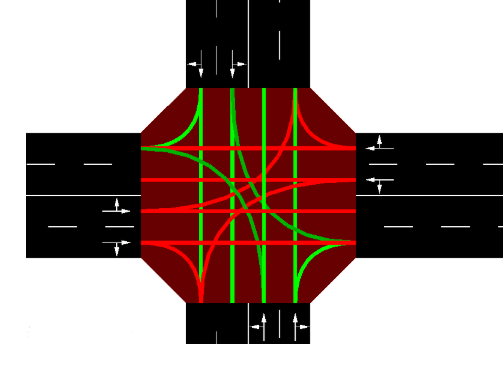
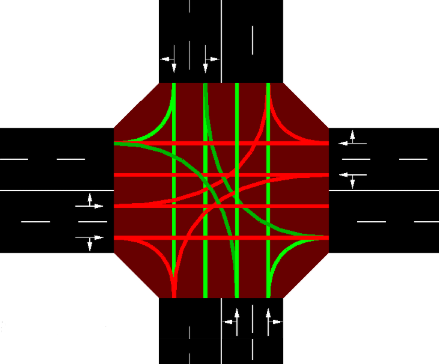
latex sehr updated

Changed region(s): [[0.0, 0.0, 1.0, 1.0], [0.533, 0.0907, 0.5626, 0.1511], [0.4146, 0.0, 0.4442, 0.0302]]

diff --git a/latex/chapters/methodik/Einbindung.tex b/latex/chapters/methodik/Einbindung.tex
@@ -16,7 +16,7 @@ Die Architektur der Lernumgebung ist als verteiltes Multiagentensystem ausgelegt
         \node[box, below=of mae] (wrap) {SuperSuit Wrappers\\\texttt{- pad\_obs / pad\_actions}\\\texttt{- pettingzoo\_to\_vec\_env}\\\texttt{- concat\_vec\_envs}};
         \node[box, below=of wrap] (vec) {VecNormalize + VecMonitor\\(Stable-Baselines3)};
         \node[box, below=of vec] (ppo) {PPO Agent (Stable-Baselines3)\\\texttt{- MLPPolicy}\\\texttt{- Schedules: LR (cosine warmup), Clip (cosine)}};
-        \node[box, below=of ppo] (cb) {Callbacks\\\texttt{- TimeBasedCheckpoint}\\\texttt{- EnvMetricsLogger}\\\texttt{- BestModelSaver}};
+        \node[box, below=of ppo] (cb) {Callbacks\\\texttt{- TimeBasedCheckpoint}\\\texttt{- EpisodeMetricsLogger}\\\texttt{- BestModelSaver}};
         \node[box, below=of cb] (log) {Modell- \& Log-Speicherung\\\texttt{(pro Seed in runs/)}};
 
         \draw[arrow] (sim) -- (mae);
@@ -53,24 +53,36 @@ Evaluationsläufe mit zuvor nicht genutzten Zufallsseeds dienen der abschließen
 
 
 \subsubsection{Konfiguration der Umgebung}
-
-Die Reinforcement-Learning-Umgebung wurde auf Basis der Klasse \texttt{parallel\_env} aus \texttt{sumo-rl} konfiguriert.
-Wichtige Parameter umfassen:
+\label{sec:training-setup}
+Die Trainingsumgebung basiert auf der Klasse \texttt{parallel\_env} aus dem \texttt{sumo-rl}-Framework, wurde jedoch stark erweitert und in eine
+Stable-Baselines3-kompatible Vektor-Umgebung eingebettet.
+Dabei wurden die folgenden Aspekte berücksichtigt:
 
 \begin{itemize}
-    \item \texttt{net\_file}, \texttt{route\_file}: Pfade zum bereinigten Verkehrsnetz und zugehöriger Routendatei.
-    \item \texttt{use\_gui}: Deaktiviert für schnelleres Training (\texttt{False}); bei Bedarf zur Laufzeit aktivierbar.
-    \item \texttt{num\_seconds}: Dauer einer Simulationsepisode in Sekunden (hier 5000\,s).
-    \item \texttt{delta\_time}: Zeitabstand zwischen Agentenentscheidungen (Default: 5\,s).
-    \item \texttt{reward\_fn}: Referenz auf die aktive Belohnungsfunktion.
-          Für das Haupttraining wurde \texttt{realworld\_reward} verwendet (Details siehe Abschnitt~\ref{sec:rl-konzept}).
-    \item \texttt{min\_green}: Minimale Grünphasenlänge (5\,s).
-    \item \texttt{max\_depart\_delay}: Maximale Verzögerung bei der Einfahrt eines Fahrzeugs (100\,s).
-    \item \texttt{sumo\_seed}: Fester Zufalls-Seed aus der Seedliste $\{546456, 678678, 234256, 678\}$.
-    \item \texttt{add\_system\_info}: Ergänzt systemweite Kennzahlen in den \texttt{infos}.
-    \item \texttt{add\_per\_agent\_info}: Kontextdaten pro Agent (hier deaktiviert).
-    \item \texttt{single\_agent = False}: Multiagentenmodus; jede steuerbare Ampel ist ein separater Agent.
+    \item \textbf{Verkehrsnetz:} Grundlage ist das bereinigte Netz \texttt{map.net.xml}.
+    \item \textbf{Routenprofile:} Drei Routendateien (\texttt{flows\_low.rou.xml}, \texttt{flows\_medium.rou.xml}, \texttt{flows\_high.rou.xml}) werden
+          zyklisch per Reset geladen, sodass das Modell im Training auf verschiedene Lastprofile trifft.
+    \item \textbf{Seed-Handling:} Vier unterschiedliche Seeds (\{143534, 456, 635768, 13755\}) sorgen für Reproduzierbarkeit und Variation.
+    \item \textbf{Episode-Länge:} Jede Episode läuft für 4096 Simulationssekunden.
+    \item \textbf{Entscheidungsintervall:} Ampelaktionen werden alle 5\,s (\texttt{delta\_time}) neu gewählt.
+    \item \textbf{Belohnungsfunktionen:} Durch die direkte Erweiterung des \texttt{sumo-rl}-Frameworks können unterschiedliche Reward-Funktionen flexibel eingebunden werden,
+          wodurch eine einheitliche Schnittstelle für Experimente mit verschiedenen Zielfunktionen entsteht (siehe Anhang~\ref{app:rewardfunktionen}).
+    \item \textbf{Systemmetriken:} \texttt{add\_system\_info=True} aktiviert globale Kennzahlen wie mittlere Wartezeit oder Gesamtemissionen.
+    \item \textbf{Multi-Agent-Setup:} Jede steuerbare Ampel im Netz wird als eigenständiger Agent behandelt, was der PettingZoo-Schnittstelle entspricht.
+    \item \textbf{Integration in SB3:} Über \texttt{SuperSuit} (Padding, Konvertierung, Vektorisierung) wird die Umgebung an Stable-Baselines3 angebunden.
+    \item \textbf{Normalisierung:} Rewards und Beobachtungen werden mit \texttt{VecNormalize} z-standardisiert, um das Training zu stabilisieren.
 \end{itemize}
+
+Zusätzlich sind mehrere Callback-Mechanismen implementiert:
+\begin{itemize}
+    \item \textbf{Checkpoints:} Zeitbasiertes Speichern der Modelle (stündlich).
+    \item \textbf{Logging:} Aggregierte Episodenmetriken (Wartezeiten, Queues, Fluss) werden in TensorBoard und CSV-Dateien geschrieben.
+    \item \textbf{Bestes Modell:} Automatisches Sichern des jeweils besten Modells nach mittlerem Episoden-Reward.
+\end{itemize}
+
+Das Training erfolgt mit PPO (\texttt{stable-baselines3}) und nutzt eine Cosine-Schedule für Lernrate und Clip-Range,
+sowie eine zweischichtige MLP-Policy (\texttt{[128,128]}). Jede Run wird im Ordner \texttt{runs/} mit Zeitstempel protokolliert.
+
 
 Die Umgebung ist vollständig kompatibel mit \texttt{Gymnasium}, \texttt{PettingZoo} sowie den Wrapper-Bibliotheken \texttt{SuperSuit} und \texttt{VecEnv}, wodurch ein standardisiertes Interfacing mit RL-Algorithmen ermöglicht wird.
 
@@ -143,58 +155,71 @@ zu Beginn eine hohe Exploration zuzulassen und gegen Ende des Trainings die Upda
 Der Entropiekoeffizient von 0{,}01 wurde so gewählt,
 dass auch in späten Trainingsphasen eine gewisse Exploration erhalten bleibt.
 
-
 \subsubsection{Checkpoints, Monitoring und Logging}
 
-Zur Sicherstellung eines robusten Trainingsprozesses wurde eine Reihe von Callback-Mechanismen implementiert (siehe Anhang \ref{app:train_script}):
+Zur Sicherstellung eines robusten und reproduzierbaren Trainingsprozesses wurde ein
+umfassendes Callback- und Logging-System integriert (siehe Anhang~\ref{app:train_script}).
+Dieses setzt direkt auf den Mechanismen von Stable-Baselines3 auf und umfasst:
 
 \begin{itemize}
     \item \textbf{TimeBasedCheckpointCallback:}
-          Zeitbasierte Sicherung des Modells und der Normalisierungsdaten in festen Intervallen
-          (standardmäßig stündlich). Gespeicherte Dateien:
-          \begin{itemize}
-              \item \texttt{ppo\_sumo\_model\_\{steps\}\_steps.zip} - Modellparameter,
-              \item \texttt{ppo\_sumo\_model\_\{steps\}\_steps\_vecnormalize.pkl} - Normalisierungszustand.
-          \end{itemize}
+          Zeitbasierte Sicherung des aktuellen Modells und der Normalisierungsdaten
+          in festen Intervallen (standardmäßig stündlich).
+          Die Dateien werden mit Schrittzähler im Namen versioniert
+          und ermöglichen die Wiederaufnahme ab beliebigen Zwischenständen.
 
-    \item \textbf{EnvMetricsLoggerCallback:}
-          Aggregiert und loggt Umgebungsmetriken aus dem \texttt{infos}-Dictionary.
-          Schlüssel mit Präfix \texttt{system\_} werden in globale Mittelwerte umbenannt (\texttt{mean\_...}).
-          Geloggte Metriken umfassen:
-          \begin{itemize}
-              \item \texttt{mean\_arrived}: mittlere Anzahl neu eingetroffener Fahrzeuge,
-              \item \texttt{mean\_departed}: mittlere Anzahl abgefahrener Fahrzeuge,
-              \item \texttt{mean\_backlogged}: mittlere Anzahl nicht abgefertigter Fahrzeuge,
-              \item \texttt{mean\_running}: mittlere Anzahl aktuell fahrender Fahrzeuge,
-              \item \texttt{mean\_stopped}: mittlere Anzahl stehender Fahrzeuge,
-              \item \texttt{mean\_mean\_speed}: mittlere Durchschnittsgeschwindigkeit,
-              \item \texttt{mean\_mean\_waiting\_time}: mittlere mittlere Wartezeit pro Fahrzeug,
-              \item \texttt{mean\_waiting\_time}: mittlere Wartezeit (gesamt),
-              \item \texttt{mean\_teleported}: mittlere Anzahl Teleportationen pro Schritt,
-              \item \texttt{mean\_emissions\_per\_vehicle}: mittlere CO\textsubscript{2}-Emission pro Fahrzeug.
-          \end{itemize}
+    \item \textbf{EpisodeMetricsLoggerCallback:}
+          Aggregiert Kennzahlen direkt aus dem \texttt{infos}-Dictionary der SUMO-Umgebung
+          und schreibt sie in das Stable-Baselines3-Logger-Interface.
+          Damit wird ein kontinuierliches Monitoring pro Episode gewährleistet.
 
     \item \textbf{BestModelSaverCallback:}
-          Automatische Speicherung des jeweils besten Modells (höchster mittlerer Episodenreward aus \texttt{ep\_info\_buffer}),
-          inklusive zugehöriger Normalisierungsdaten:
-          \begin{itemize}
-              \item \texttt{best\_model.zip}: bestes Modell,
-              \item \texttt{best\_model\_vecnormalize.pkl}: Normalisierungszustand des besten Modells.
-          \end{itemize}
+          Automatische Speicherung des jeweils besten Modells,
+          gemessen am mittleren Episodenreward (\texttt{ep\_info\_buffer}).
+          Neben den Modellparametern werden auch die Normalisierungsdaten gesichert,
+          sodass eine konsistente Reproduktion möglich ist.
 \end{itemize}
 
+\paragraph{Geloggte Metriken.}
+Alle relevanten Metriken werden zusätzlich im CSV-Format und über TensorBoard \cite{TensorBoard} erfasst.
+Die wichtigsten überwachten Größen sind:
 
-Alle Modellartefakte (\texttt{.zip}, \texttt{vecnormalize.pkl}) sowie die TensorBoard-Logs \cite{TensorBoard}
-wurden pro Seed-Version strukturiert gespeichert. Das Log-Verzeichnis folgt dem Schema
-\texttt{runs/ppo\_sumo\_<SEED>\_<YYYY-MM-DD\_HH-MM-SS>}.
-\texttt{tensorboard\_log} verweist auf diesen Ordner; \texttt{VecMonitor} schreibt zusätzlich \texttt{monitor.csv}.
-TensorBoard wurde während des gesamten Trainings eingesetzt, um den Verlauf zentraler Kennzahlen
-(z.\,B. Episodenreward, mittlere Geschwindigkeit, Wartezeiten, CO\textsubscript{2}-Emissionen,
-Lernrate, Clip-Range) in Echtzeit zu überwachen.
-Dies ermöglichte eine frühzeitige Erkennung von Instabilitäten (z.\,B. plötzliche Reward-Einbrüche)
-sowie die Analyse des Lernfortschritts in unterschiedlichen Trainingsphasen.
-Die Visualisierungen wurden zudem genutzt, um Hyperparameter-Anpassungen
-in Vorversuchen gezielt zu validieren.
+\begin{itemize}
+    \item \textbf{Szenario und Methode:} \texttt{scenario}, \texttt{method}, \texttt{run\_dir},
+    \item \textbf{Systemmetriken:} Anzahl fahrender Fahrzeuge (\texttt{system\_total\_running}),
+          gestoppter Fahrzeuge (\texttt{system\_total\_stopped}),
+          eingetroffener Fahrzeuge (\texttt{system\_total\_arrived}),
+          abgefertigter Fahrzeuge (\texttt{system\_total\_departed}),
+          backlogged Fahrzeuge (\texttt{system\_total\_backlogged}),
+          Teleports (\texttt{system\_total\_teleported}),
+    \item \textbf{Leistungsmetriken:} mittlere Wartezeit (\texttt{system\_mean\_waiting\_time}),
+          gesamte Wartezeit (\texttt{system\_total\_waiting\_time}),
+          mittlere Geschwindigkeit (\texttt{system\_mean\_speed}),
+    \item \textbf{Trainingsmetriken:} mittlerer Episodenreward (\texttt{ep\_rew\_mean}),
+          Episodenlänge (\texttt{ep\_len\_mean}),
+          verwendeter Seed (\texttt{ep\_seed\_mean}),
+          sowie aggregierte Episodenstatistiken (\texttt{episode\_mean}).
+\end{itemize}
+
+TensorBoard diente als zentrales Werkzeug, um den Verlauf relevanter Kennzahlen in Echtzeit zu überwachen und Trainingstendenzen (z. B. Reward-Stabilität, Auswirkungen von Teleports oder Backlog-Aufbau) nachvollziehbar zu machen.
+
+\begin{figure}[H]
+    \centering
+    \includegraphics[width=0.8\textwidth]{tensorboard.PNG}
+    \caption{Beispielhafte Lernkurve eines Trainingslaufs, visualisiert mit TensorBoard. Der Reward stabilisiert sich nach einer Explorationsphase.}
+    \label{fig:tensorboard_example}
+\end{figure}
+
+
+\paragraph{Artefakte und Struktur.}
+Alle Modellartefakte (\texttt{.zip}, \texttt{vecnormalize.pkl}),
+sowie die zugehörigen \texttt{monitor.csv}-Dateien und TensorBoard-Logs
+werden pro Seed in einem Run-spezifischen Ordner gespeichert
+(\texttt{runs/ppo\_sumo\_<SEED>\_<YYYY-MM-DD\_HH-MM-SS>}).
+TensorBoard diente als zentrales Werkzeug, um den Verlauf relevanter Kennzahlen
+in Echtzeit zu überwachen und Trainingstendenzen (z.\,B. Reward-Stabilität,
+Auswirkungen von Teleports oder Backlog-Aufbau) nachvollziehbar zu machen.
+
 
 \subsubsection{Systemumgebung und Durchführung}
 

diff --git a/latex/chapters/methodik/Aufbau_des_Simulationsmodells_in_SUMO.tex b/latex/chapters/methodik/Aufbau_des_Simulationsmodells_in_SUMO.tex
@@ -2,11 +2,11 @@
 
 \subsubsection{Netzgenerierung}
 
-Zur Modellierung des realen Straßennetzes wurde ein Kartenausschnitt des Untersuchungsgebiets über die Exportfunktion von OpenStreetMap \cite{osm-export} heruntergeladen und anschließend mit JOSM \cite{josm} bereinigt. Der Ausschnitt umfasst die Reinhold-Frank-Straße sowie angrenzende Hauptverkehrsachsen im Bereich des Mühlburger Tors. Der bearbeitete Kartenausschnitt wurde mit dem SUMO-Werkzeug \texttt{netconvert} \cite{sumo-tools} in ein XML-Netzwerkformat überführt. Dabei kamen Optionen zur automatischen TLS-Erkennung und zur Verbesserung der Fahrstreifenzuordnung zum Einsatz (z.\,B. \texttt{--tls.guess-signals}, \texttt{--junctions.join}). \cite{sumo-doc}
+Zur Modellierung des realen Straßennetzes wurde ein Kartenausschnitt des Untersuchungsgebiets über die Exportfunktion von OpenStreetMap \cite{osm-export} heruntergeladen und anschließend mit JOSM \cite{josm} bereinigt. Der Ausschnitt umfasst die Reinhold-Frank-Straße sowie angrenzende Hauptverkehrsachsen im Bereich des Mühlburger Tors. Der bearbeitete Kartenausschnitt wurde mit dem SUMO-Werkzeug \texttt{netconvert} \cite{sumo-tools} in ein XML-Netzwerkformat überführt. Dabei kamen Optionen zur Einsatz um das Netz stabiler zu machen(z.\,B. \texttt{--junctions.join}). \cite{sumo-doc}
 
 \subsubsection{Erzeugung von Fahrzeugflüssen}
 
-Für die Simulation wurden zwei Ansätze genutzt. Zunächst entstanden mit dem SUMO-Skript \texttt{randomTrips.py} \cite{randomTrips} einfache Testflüsse, die zur Validierung des Netzmodells dienten. Anschließend wurden auf Basis realer Verkehrszähldaten (siehe Kapitel \ref{sec:zaehlstellen-karlsruhe}) Flussprofile definiert, welche die beobachteten DTV-Werte proportional auf die äußeren Zufahrtskanten verteilten. Hauptachsen wie B10 oder B36 erhielten dabei ein höheres Gewicht. Die daraus erzeugten Routendateien wurden mit \texttt{duarouter} \cite{duarouter} zu konfliktfreien Fahrten verarbeitet. Unterschiedliche Szenarien (Morgen- und Abendspitzen, gleichmäßige Verteilung) erlaubten die Abbildung verschiedener Verkehrslagen.
+Für die Simulation wurden zwei Ansätze genutzt. Zunächst entstanden mit dem SUMO-Skript \texttt{randomTrips.py} \cite{randomTrips} einfache Testflüsse, die zur Validierung des Netzmodells dienten. Anschließend wurden auf Basis realer Verkehrszähldaten (siehe Kapitel \ref{sec:zaehlstellen-karlsruhe}) Flussprofile definiert, welche die beobachteten DTV-Werte proportional auf die äußeren Zufahrtskanten verteilten. Hauptachsen wie B10 oder B36 erhielten dabei ein höheres Gewicht. Die daraus erzeugten Routendateien wurden mit \texttt{duarouter} \cite{duarouter} zu konfliktfreien Fahrten verarbeitet. Unterschiedliche Szenarien (niedrige Last, normale Last, hohe Last) erlaubten die Abbildung verschiedener Verkehrslagen.
 
 \subsubsection{Identifikation relevanter Zufahrtskanten}
 
@@ -30,16 +30,15 @@ Die manuelle Nachbearbeitung war zeitaufwändig, da fehlerhafte TLS nicht automa
 
 \subsubsection{Szenarien und Referenzsimulationen}
 
-Zur Validierung der Verkehrsflüsse wurden unterschiedliche Szenarien umgesetzt:
+Zur Validierung der Verkehrsflüsse wurden Szenarien mit unterschiedlicher Lastintensität definiert:
 
 \begin{itemize}
-  \item \textbf{Morgenspitze:} Verstärkte Einträge an Süd- und Westzufahrten.
-  \item \textbf{Abendliche Rückstaus:} Höhere Belastung der Ausfallstraßen und des Innenstadtrings.
-  \item \textbf{Gleichmäßiger Tagesverlauf:} Homogene Einträge über den Tag verteilt.
-  \item \textbf{Zentrumsfokus:} Stärkerer Verkehr über Reinhold-Frank-Straße und Mühlburger Tor.
+  \item \textbf{Niedrige Last:} geringes Verkehrsaufkommen mit überwiegend freiem Fluss,
+  \item \textbf{Normale Last:} repräsentatives Durchschnittsaufkommen im Tagesverlauf,
+  \item \textbf{Hohe Last:} stark verdichteter Verkehr zur Abbildung von Spitzenbelastungen.
 \end{itemize}
 
-Die Simulationen dienten der Überprüfung der Netzdurchlässigkeit und der Kapazitäten der Knotenpunkte.
+Diese Szenarien ermöglichen eine Überprüfung der Netzdurchlässigkeit und der Leistungsfähigkeit der Knotenpunkte unter verschiedenen Belastungsniveaus.
 
 \subsubsection{Signalsteuerung und Simulationsparameter}
 

diff --git a/latex/chapters/hintergrund_und_stand_der_technik.tex b/latex/chapters/hintergrund_und_stand_der_technik.tex
@@ -40,26 +40,20 @@ Die SUMO-Toolchain bietet damit alle notwendigen Komponenten für die Entwicklun
 
 \subsection{Verstärkendes Lernen (Reinforcement Learning)}
 
-Reinforcement Learning (RL) ist ein Teilgebiet des maschinellen Lernens, bei dem ein Agent durch Interaktion mit einer Umgebung lernt, optimale Handlungen auszuführen. Dabei verfolgt er das Ziel, eine kumulative Belohnung zu maximieren. \cite{sutton-barto}
+Reinforcement Learning (RL) ist ein Teilgebiet des maschinellen Lernens, bei dem ein Agent durch Interaktion mit einer Umgebung lernt, optimale Handlungen auszuführen. Ziel ist es, die kumulative Belohnung über Zeit zu maximieren \cite{sutton-barto}.
 
 Ein RL-Prozess wird typischerweise als Markov Decision Process (MDP) beschrieben und besteht aus folgenden Komponenten:
 
 \begin{itemize}
-    \item \textbf{Zustand $s$ (state):} Eine Repräsentation der aktuellen Situation der Umgebung.
-    \item \textbf{Aktion $a$ (action):} Eine Entscheidung oder Handlung, die der Agent im Zustand $s$ trifft.
-    \item \textbf{Belohnung $r$ (reward):} Ein numerischer Wert, der die Güte der Aktion bewertet.
-    \item \textbf{Policy $\pi$:} Eine Strategie, die angibt, welche Aktion in welchem Zustand gewählt wird.
+    \item \textbf{Zustand $s$ (state):} Repräsentation der aktuellen Situation der Umgebung.
+    \item \textbf{Aktion $a$ (action):} Entscheidung oder Handlung, die der Agent im Zustand $s$ trifft.
+    \item \textbf{Belohnung $r$ (reward):} Numerischer Wert, der die Güte der Aktion bewertet.
+    \item \textbf{Policy $\pi$:} Strategie, die angibt, welche Aktion in welchem Zustand gewählt wird.
 \end{itemize}
 
-Der Agent interagiert mit der Umgebung, beobachtet den Zustand, wählt eine Aktion, erhält eine Belohnung und gelangt in einen neuen Zustand. Durch viele Wiederholungen lernt er, welche Entscheidungen langfristig die besten sind.
+Der Agent interagiert wiederholt mit der Umgebung, beobachtet Zustände, wählt Aktionen, erhält Belohnungen und gelangt in neue Zustände. Durch diese Rückkopplung lernt er, langfristig optimale Entscheidungen zu treffen.
 
-Wichtige Algorithmen, die in dieser Arbeit potenziell relevant sind, sind:
-
-\begin{itemize}
-    \item \textbf{Q-Learning\cite{Q-Learning}:} Modellfreies, off-policy Lernverfahren zur Annäherung an optimale Aktionen.
-    \item \textbf{DQN (Deep Q-Network)\cite{Deep_Q-Learning}:} Kombination von Q-Learning mit neuronalen Netzen.
-    \item \textbf{PPO (Proximal Policy Optimization)\cite{Proximal_Policy_Optimization}:} Policy-basierter RL-Ansatz mit stabiler Optimierung.
-\end{itemize}
+In dieser Arbeit wird ausschließlich \textbf{Proximal Policy Optimization (PPO)} \cite{Proximal_Policy_Optimization} eingesetzt – ein policy-basierter RL-Algorithmus, der für seine Stabilität und Effizienz bei kontinuierlichen Interaktionen mit komplexen Umgebungen bekannt ist. Andere RL-Verfahren (z. B. Q-Learning oder DQN) wurden nicht berücksichtigt.
 
 \subsection{SUMO-RL: Architektur und Funktionalität}
 

diff --git a/latex/chapters/methodik/evaluierungstrategie.tex b/latex/chapters/methodik/evaluierungstrategie.tex
@@ -15,6 +15,12 @@ Vier Szenarien decken typische Lastprofile ab:
     \item \textbf{random\_heavy} (\texttt{flows\_random\_heavy.rou.xml}): stochastisch dichter Verkehr.
 \end{itemize}
 
+Die Lastprofile \emph{morning\_peak} und \emph{evening\_peak} wurden so definiert,
+dass morgens der Verkehr überwiegend in das Stadtzentrum hineinführt,
+während er abends nach außen abfließt.
+Das Szenario \emph{random\_heavy} dient dazu, das Netz an seine Kapazitätsgrenzen zu bringen
+und die Robustheit der Steuerungsansätze unter hoher Last zu überprüfen.
+
 \subsubsection{Bewertete Modelle}
 Die zu evaluierenden RL-Modelle werden automatisch aus \texttt{runs/} ermittelt:
 \begin{itemize}
@@ -58,7 +64,7 @@ Der Ablauf ist für RL und Baselines einheitlich:
 \subsubsection{Seeds und Replikationsdesign}
 Das Seed-Design ist eindimensional: Es wird eine feste Menge von zehn \emph{Episoden-Seeds} (\texttt{EP\_SEEDS}) verwendet, die vom Training entkoppelt sind.
 Pro Kombination aus \emph{Szenario}, \emph{Methode} und \emph{Modelllauf} werden \texttt{N\_EPISODES = 10} Episoden ausgewertet.
-Da zwei Baselines (Fixed-Time, Actuated) sowie alle RL-Läufe unter \texttt{runs/ppo\_sumo\_*} berücksichtigt werden, ergibt sich insgesamt:
+Da zwei Baselines (Fixed-Time, Actuated) sowie alle RL-Läufe unter \texttt{runs/ppo\_sumo\_*} berücksichtigt werden, ergibt sich insgesamt (mit 4 Seeds):
 
 \begin{align*}
     \#\text{Episoden} & = (2 + |\texttt{RUNS}|)\cdot |\texttt{SCENARIOS}|\cdot \texttt{N\_EPISODES} \\
@@ -84,3 +90,9 @@ Die Evaluation ist deterministisch durch:
 \end{enumerate}
 
 Diese Strategie stellt sicher, dass die in Kapitel~\ref{sec:validation} präsentierten Ergebnisse reproduzierbar, belastbar und zwischen RL-Varianten sowie Baselines vergleichbar sind.
+
+Das gesamte Vorgehen ist in einem dedizierten Evaluationsskript (\texttt{evaluate.py}) implementiert,
+welches im Anhang dokumentiert ist (siehe Anhang~\ref{app:evaluate_script}).
+Dieses Skript stellt sicher, dass sämtliche hier beschriebenen Schritte
+systematisch und reproduzierbar umgesetzt werden.
+

diff --git a/latex/chapters/datenquellen_und_modellierungsgrundlage.tex b/latex/chapters/datenquellen_und_modellierungsgrundlage.tex
@@ -3,7 +3,7 @@
 \label{sec:datenquellen_und_modellgrundlage}
 \subsection{OpenStreetMap als Grundlage für das Verkehrsmodell}
 
-Das Verkehrsnetz für die Simulation basiert auf öffentlich verfügbaren Geodaten der Plattform OpenStreetMap (OSM). OSM bietet eine frei zugängliche, kollaborativ gepflegte Datenbank, die detaillierte Informationen zu Straßenverläufen, Kreuzungen, Fahrspuren, Tempolimits und teilweise zu Ampelanlagen enthält. Diese Eigenschaften machen OSM zu einer geeigneten Grundlage für mikroskopische Verkehrssimulationen mit SUMO. \cite{osm, osm-git}
+Das Verkehrsnetz für die Simulation basiert auf öffentlich verfügbaren Geodaten der Plattform OpenStreetMap (OSM). OSM bietet eine frei zugängliche, kollaborativ gepflegte Datenbank, die detaillierte Informationen zu Straßenverläufen, Kreuzungen, Fahrspuren, Tempolimits und teilweise zu Ampelanlagen enthält. Diese Eigenschaften machen OSM zu einer geeigneten Grundlage für Verkehrssimulationen mit SUMO. \cite{osm, osm-git}
 
 Zur Erstellung des Netzes wurde ein Ausschnitt des Straßennetzes der Stadt Karlsruhe exportiert, der einen stark frequentierten urbanen Bereich mit mehreren signalgesteuerten Kreuzungen umfasst. Der betrachtete Bereich liegt zwischen 49{,}00738,\textdegree{}N und 49{,}01523,\textdegree{}N sowie 8{,}38589,\textdegree{}E und 8{,}40050,\textdegree{}E und deckt unter anderem die Reinhold-Frank-Straße, das Mühlburger Tor und angrenzende Hauptverkehrsachsen ab. Der Export erfolgte als \texttt{.osm}-Datei über den Geofabrik-Downloaddienst bzw. mit dem Tool JOSM. \cite{osm-export, josm} Die anschließende Konvertierung in das SUMO-Format erfolgte mit dem Programm \texttt{netconvert} (Version 1.19.0), einem Teil der SUMO-Toolchain. \cite{sumo-tools} Hierbei wurden relevante Parameter wie Straßentypen, Fahrspuren, Prioritäten und erlaubte Abbiegevorgänge berücksichtigt. Als Typemap kam \texttt{osmNetconvert.typ.xml} \cite{netconvert} zum Einsatz, um realitätsnahe Geschwindigkeiten und Fahrspuren zuzuweisen.
 

diff --git a/latex/chapters/methodik/Analyse_und_Herausforderungen.tex b/latex/chapters/methodik/Analyse_und_Herausforderungen.tex
@@ -3,12 +3,14 @@
 
 \subsubsection{Grundstruktur von Lichtsignalanlagen in SUMO}
 Bevor die Probleme beim OSM-Import analysiert werden, ist es hilfreich, den Aufbau und die Abhängigkeiten der relevanten XML-Elemente in SUMO \cite{sumo-doc} zu verstehen, insbesondere im Zusammenhang mit der Steuerung von Lichtsignalanlagen.
+\vspace{0.5cm}
 \begin{figure}[H]
   \centering
-  \includegraphics[width=0.9\textwidth]{images/junktion.png}
-  \caption{Visualisierung einer TLS-Kreuzung (eigene Darstellung \cite{Sumo-Gui}).}
+  \includegraphics[width=0.7\textwidth]{images/junktion.png}
+  \caption{Visualisierung einer TLS-Kreuzung (Quelle nededit\cite{netedit}).}
   \label{fig:sumo_karlsruhe}
 \end{figure}
+\vspace{0.5cm}
 
 \begin{itemize}
   \item \textbf{\texttt{<junction>}} Definiert Knotenpunkte im Netz. Falls eine Ampel gesteuert wird, ist der Typ \texttt{type="traffic\_light"}. Die ID entspricht in der Regel der TLS-ID.
@@ -155,12 +157,21 @@ Die Topologie entspricht der realen Verkehrsführung, wurde jedoch so modelliert
 
 \begin{figure}[H]
   \centering
-  \includegraphics[width=0.45\textwidth]{junction_before.PNG}
+  \begin{subfigure}[t]{0.41\textwidth}
+    \centering
+    \includegraphics[width=\textwidth]{junction_before.PNG}
+    \caption*{Vorher}
+  \end{subfigure}
   \hfill
-  \includegraphics[width=0.45\textwidth]{junction_after.PNG}
+  \begin{subfigure}[t]{0.45\textwidth}
+    \centering
+    \includegraphics[width=\textwidth]{junction_after2.PNG}
+    \caption*{Nachher}
+  \end{subfigure}
   \caption{Vorher-Nachher-Vergleich einer angepassten TLS-Kreuzung (netedit \cite{netedit})}
   \label{fig:tls_fix}
 \end{figure}
+
 
 \subsubsection{Ergebnis: ein realistisches, RL-kompatibles Netz}
 

diff --git a/latex/thesis.tex b/latex/thesis.tex
@@ -23,6 +23,7 @@
 % Bilder und Grafiken
 \usepackage{graphicx}
 \usepackage{caption}
+\usepackage{subcaption}
 
 % Aufzählungen
 \usepackage{enumitem}
